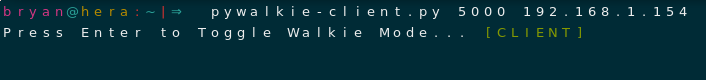
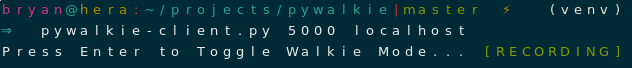
Ref: changed variable-names

diff --git a/pywalkie-client.py b/pywalkie-client.py
@@ -93,7 +93,8 @@ def monitor_input():
         p.active_walkie = status
 
         instructions = 'Press Enter to Toggle Walkie Mode...'
-        input(instructions + color(' [' + status + '] '))
+        state = 'RECORDING' if status == p.CLIENT else 'LISTENING'
+        input(instructions + color(' [' + state + '] '))
         sys.stdout.flush()
         if not p.DEBUGGING:
             CURSOR_UP_ONE = '\x1b[1A'
